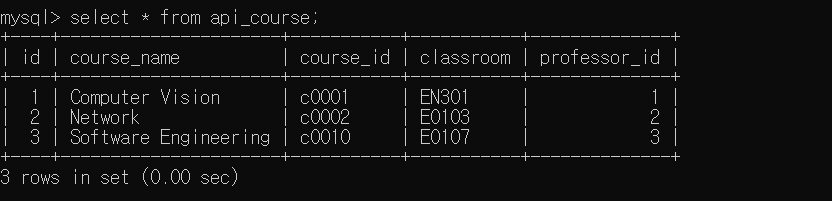
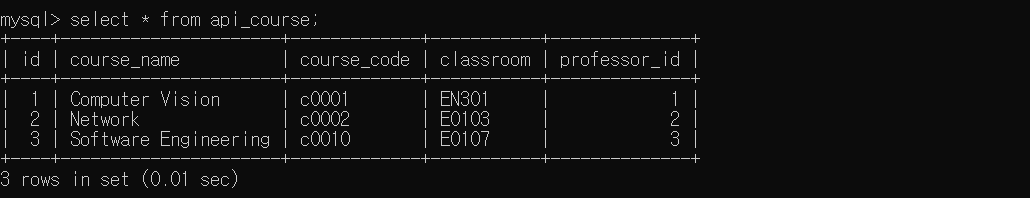
ㅕããupdate readme

diff --git a/README.md b/README.md
@@ -10,12 +10,80 @@ PR 보낼 때도 `본인의 브랜치-> 본인의 브랜치`로 해야 합니다
 
 ### 서비스 설명
 - 수강신청 서비스
-- 학생의 수강신청 현황을 확싱할 수 있다
+- 학생 또는 교수로서 서비스에 등록할 수 있다.
+- 학생의 수강신청 현황을 확인할 수 있다
 - 강좌에 대한 교수의 정보를 확인할 수 있다.
 - 학생과 교수의 연락처를 독자적인 테이블을 통해 확인할 수 있다.
 
 ### 모델 설명
 ![](./imgs/diagram.png)
+```python
+from django.db import models
+from django.contrib.auth.models import AbstractBaseUser, BaseUserManager, PermissionsMixin
+
+class StudentManager(BaseUserManager):
+    use_in_migrations = True
+
+    def student_user(self, code, name, password=None):
+        if not code:
+            raise ValueError('must have user id')
+        if not name:
+            raise ValueError('must have user name')
+
+        user = self.model(code=code, name=name)
+        user.set_password(password)
+        user.save(using=self._db)
+        return user
+
+class ProfessorManager(BaseUserManager):
+    use_in_migrations = True
+
+    def create_professor_user(self, code, name, password=None):
+        if not code:
+            raise ValueError('must have user id')
+        if not name:
+            raise ValueError('must have user name')
+
+        user = self.model(code=code, name=name)
+        user.set_password(password)
+        user.save(using=self._db)
+        return user
+
+class Contact(models.Model):  # 소속
+    email = models.EmailField(max_length=40, null=True, blank=True)
+    phone_number = models.CharField(max_length=20, null=True, blank=True)
+    office_number = models.CharField(max_length=20, null=True, blank=True)
+
+
+class Student(models.Model):  # 학생
+    objects = StudentManager()
+    student_code = models.CharField(max_length=20,verbose_name='학번')
+    student_name = models.CharField(max_length=20,verbose_name='이름')
+    student_department = models.CharField(max_length=20, null=True, blank=True,verbose_name='소속')
+    contact = models.OneToOneField(Contact, on_delete=models.SET_NULL, null=True, blank=True)
+
+
+class Professor(models.Model):  # 교수
+    objects = ProfessorManager()
+    professor_code = models.CharField(max_length=20,verbose_name='교수번호')
+    professor_name = models.CharField(max_length=20,verbose_name='이름')
+    professor_department = models.CharField(max_length=20, null=True, blank=True,verbose_name='소속')
+    professor_major = models.CharField(max_length=40, null=True, blank=True)  # 교수 세부 전공
+    contact = models.OneToOneField(Contact, on_delete=models.SET_NULL, null=True, blank=True)
+
+
+class Course(models.Model):  # 강좌
+    professor = models.ForeignKey(Professor, on_delete=models.SET_NULL, null=True, blank=True)
+    course_name = models.CharField(max_length=40)
+    course_code = models.CharField(max_length=20)
+    classroom = models.CharField(max_length=20, null=True)
+
+
+class Enrollment(models.Model):  # 수강신청, 관계테이블
+    student = models.ForeignKey(Student, on_delete=models.CASCADE)
+    course = models.ForeignKey(Course, on_delete=models.CASCADE)
+
+```
 
 ### ORM 적용해보기
 ![](./imgs/contact_table.png)
@@ -46,4 +114,4 @@ r: Professor object (3)>]>
 ```
 
 ### 간단한 회고 
-- 처음에는 데이터를 shell에서 만들어서 좀 귀찮았지만 admin 페이지가 있다는 것을 안 후에는 그것을 사용했다. admin 페이지는 짱이다...! 오랜만의 개발이라 너무 재미있었고 앞으로의 과제들이 기대가 된다.
+- 처음에는 데이터를 shell에서 만들어서 좀 귀찮았지만 admin 페이지가 있다는 것을 안 후에는 그것을 사용했다. user 모델 만드는 것이 좀 어려웠다. 저게 맞는지도 잘 모르겠다. 오랜만의 개발이라 너무 재미있었다.
